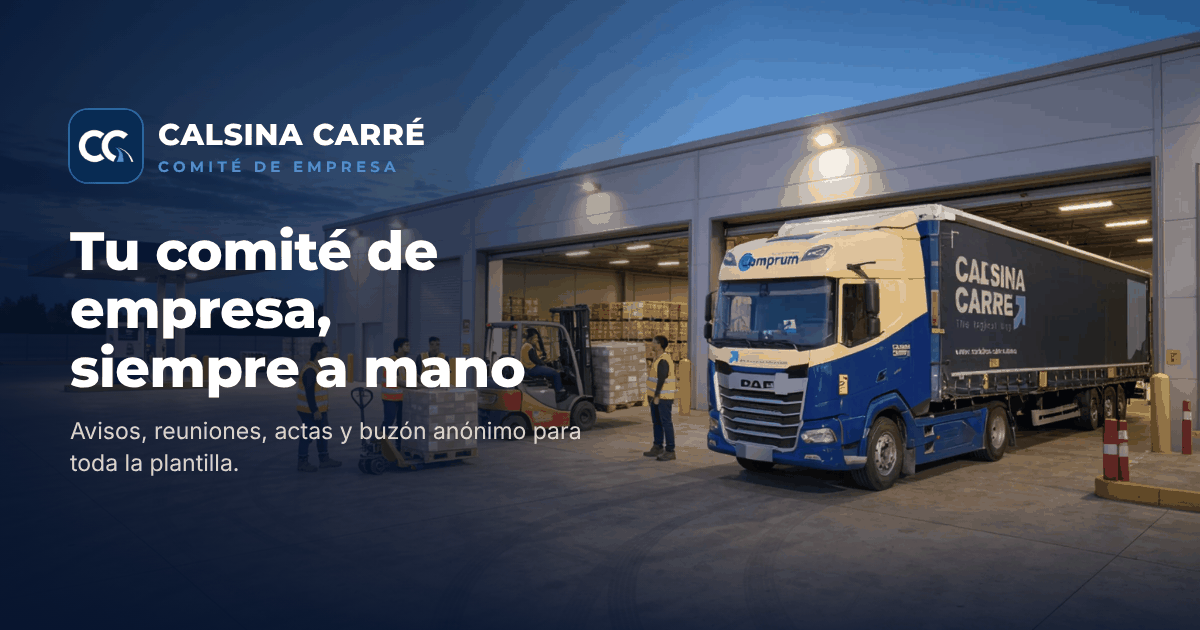
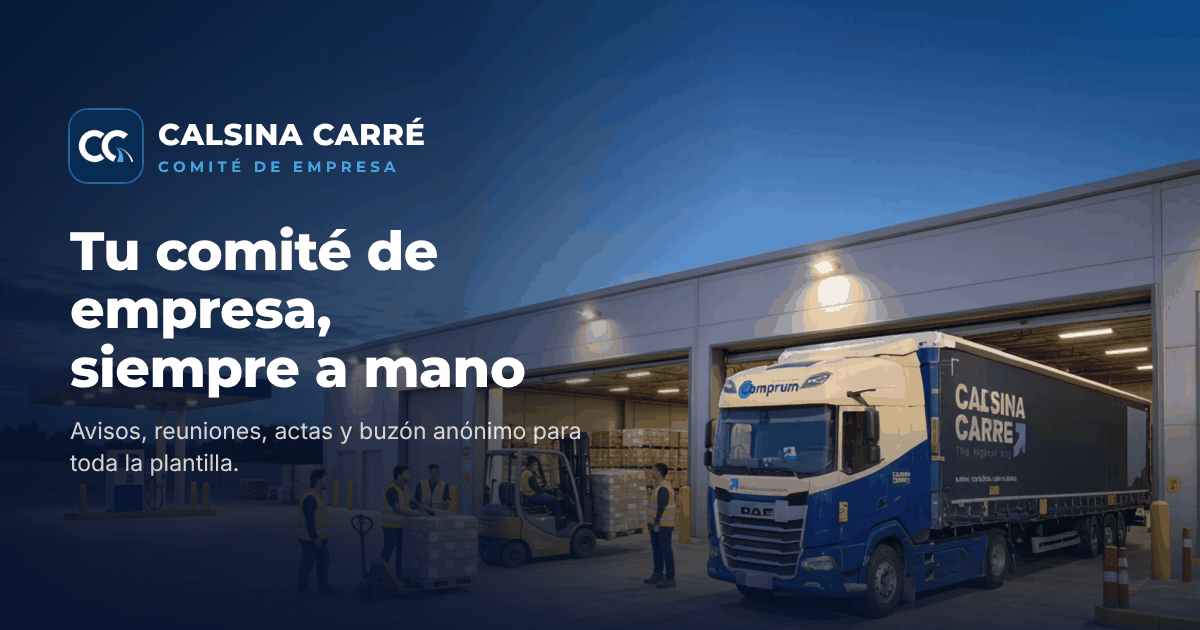
Portada PC: cielo alargado y menos suelo; el texto va sobre el cielo, sin velo oscuro
Claude-Session: https://claude.ai/code/session_011SdsLKzTmFSpwPz2orkjvZ

diff --git a/web-pc-rb.css b/web-pc-rb.css
@@ -65,19 +65,18 @@
    img/camion-carretera-ia.webp: el camión de Calsina en carretera, hecho con IA (Higgsfield, FLUX 3) a partir de la foto del camión
    de un compañero; sin matrícula legible. El titular va a la izquierda, sobre el cielo, sin difuminar los bordes y con un velo leve solo detrás del titular (lo eligió Lorena el 16/11/2026). */
 :root:root .web .hero { position: relative; overflow: hidden; background: #0b1e3c; color: #fff; padding: 0 28px;
-  min-height: clamp(520px, min(84vh, 52vw), 860px); display: flex; align-items: flex-start; }
+  min-height: clamp(520px, 52vw, 1000px); display: flex; align-items: flex-start; }
 :root:root .web .hero::before { display: none; }
-/* El velo va dentro de la foto (.hero-arte::after): .hero-in es un elemento flex con z-index y hace su propia capa, así que un ::before de .hero quedaba debajo de la foto y no se veía. */
-:root:root .web .hero-arte::after { display: block; content: ""; position: absolute; inset: 0; pointer-events: none;
-  background: linear-gradient(90deg, rgba(6, 20, 46, .8) 0, rgba(6, 20, 46, .62) 32%, rgba(6, 20, 46, .25) 52%, rgba(6, 20, 46, 0) 68%); }
+/* Sin velo (16/11/2026, Lorena: «el degradado ese no me gusta»): la foto lleva el cielo alargado por arriba y menos suelo, y el texto va sobre el cielo. */
+:root:root .web .hero-arte::after { display: none; }
 :root:root .web .hero::after { display: none; }
 :root:root .web .hero-in { position: static; width: 100%; max-width: calc(var(--ancho) - 56px); margin: 0 auto; display: block; padding: clamp(36px, 5vh, 64px) 0 88px; }
 :root:root .web .hero-arte { position: absolute; z-index: 0; inset: 0; width: 100%; height: 100%; max-width: none;
   justify-self: stretch; align-self: stretch; aspect-ratio: auto; margin: 0; border-radius: 0; box-shadow: none;
-  background: url(img/portada-plantilla.webp) 70% 55% / cover no-repeat;
+  background: url(img/portada-plantilla.webp) 50% 100% / cover no-repeat;
   -webkit-mask-image: none; mask-image: none; }
 :root:root .web .hero-arte img { display: none; }
-:root:root .web .hero-txt { position: relative; z-index: 1; max-width: min(820px, 60vw); }
+:root:root .web .hero-txt { position: relative; z-index: 1; max-width: min(1000px, 60vw); }
 :root:root .web .hero-eyebrow { display: block; margin: 0 0 22px; padding: 0; border: 0; background: none;
   font-family: "Inter", sans-serif; font-size: .95rem; font-weight: 700; letter-spacing: .12em; text-transform: uppercase; color: #fff; text-shadow: 0 1px 10px rgba(6, 20, 46, .8); }
 :root:root .web .hero-titulo { font-size: clamp(2.8rem, 4.2vw, 4.6rem); line-height: .95; font-weight: 800; letter-spacing: -.04em; color: #fff; text-shadow: 0 2px 18px rgba(6, 20, 46, .7), 0 1px 3px rgba(6, 20, 46, .5); }

diff --git a/herramientas/og.html b/herramientas/og.html
@@ -15,7 +15,7 @@ body{width:1200px;height:630px;overflow:hidden;font-family:Inter,sans-serif;colo
 .logo small{display:block;font:700 15px Montserrat;letter-spacing:.28em;text-transform:uppercase;color:#00C6FF;margin-top:4px}
 h1{font:800 54px/1.08 Montserrat;margin-top:40px;letter-spacing:-.01em}
 p{font-size:23px;color:rgba(255,255,255,.82);margin-top:18px;line-height:1.4}
-.arte{position:absolute;inset:0;background:url(../img/portada-plantilla.webp) 75% 55%/cover no-repeat}
+.arte{position:absolute;inset:0;background:url(../img/portada-plantilla.webp) 75% 100%/cover no-repeat}
 .arte::after{content:"";position:absolute;inset:0;background:linear-gradient(90deg,rgba(6,20,46,.88) 0,rgba(6,20,46,.6) 38%,rgba(6,20,46,0) 62%),linear-gradient(180deg,rgba(6,20,46,0) 62%,rgba(6,20,46,.85) 100%)}
 .arco{display:none}.txt,ul{z-index:1}
 ul{position:absolute;left:70px;right:70px;bottom:46px;list-style:none;padding:22px 0 0;display:grid;grid-template-columns:repeat(5,1fr);border-top:1px solid rgba(255,255,255,.18)}

diff --git a/styles.css b/styles.css
@@ -943,7 +943,7 @@ main:focus, main:focus-visible { outline: none; }
 .hero-titulo { text-shadow: 0 2px 14px rgba(6, 20, 46, .7); }
 @media (min-width: 760px) {
   .hero { padding-top: 36px; }
-  .hero-arte { width: 100%; margin: 0; aspect-ratio: 16 / 9; border-radius: var(--r-l); background: url(img/portada-plantilla.webp) 70% 55% / cover no-repeat; }
+  .hero-arte { width: 100%; margin: 0; aspect-ratio: 16 / 9; border-radius: var(--r-l); background: url(img/portada-plantilla.webp) 50% 100% / cover no-repeat; }
   .hero-arte::after { display: none; }
   .hero-txt { margin-top: 0; }
 }
